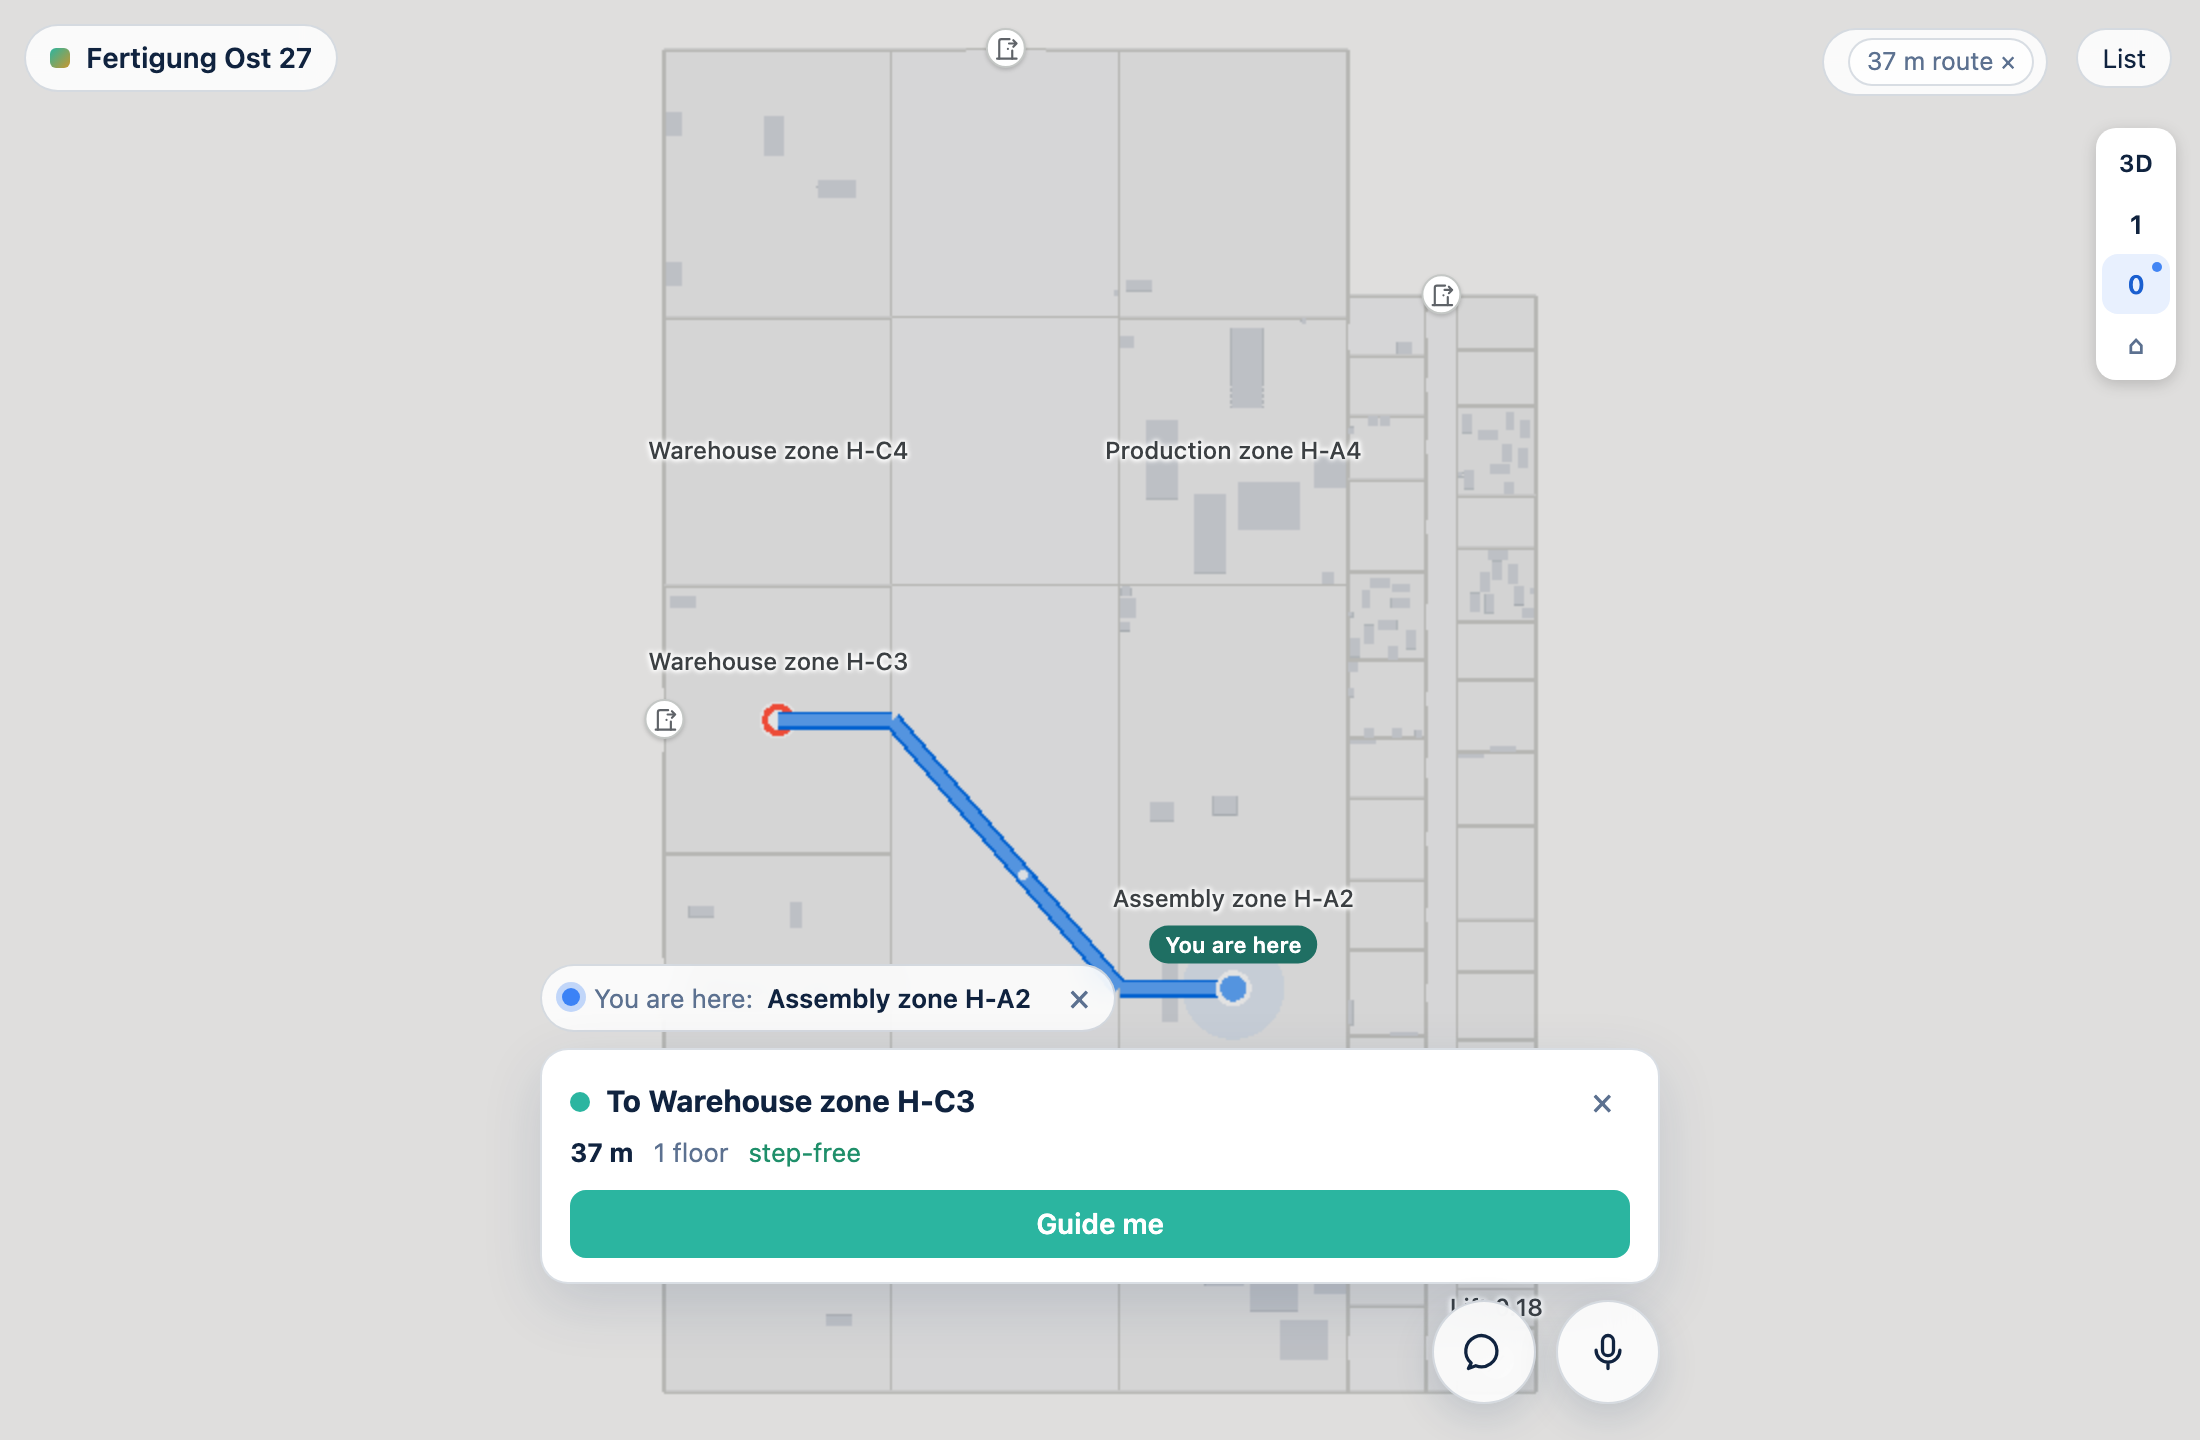
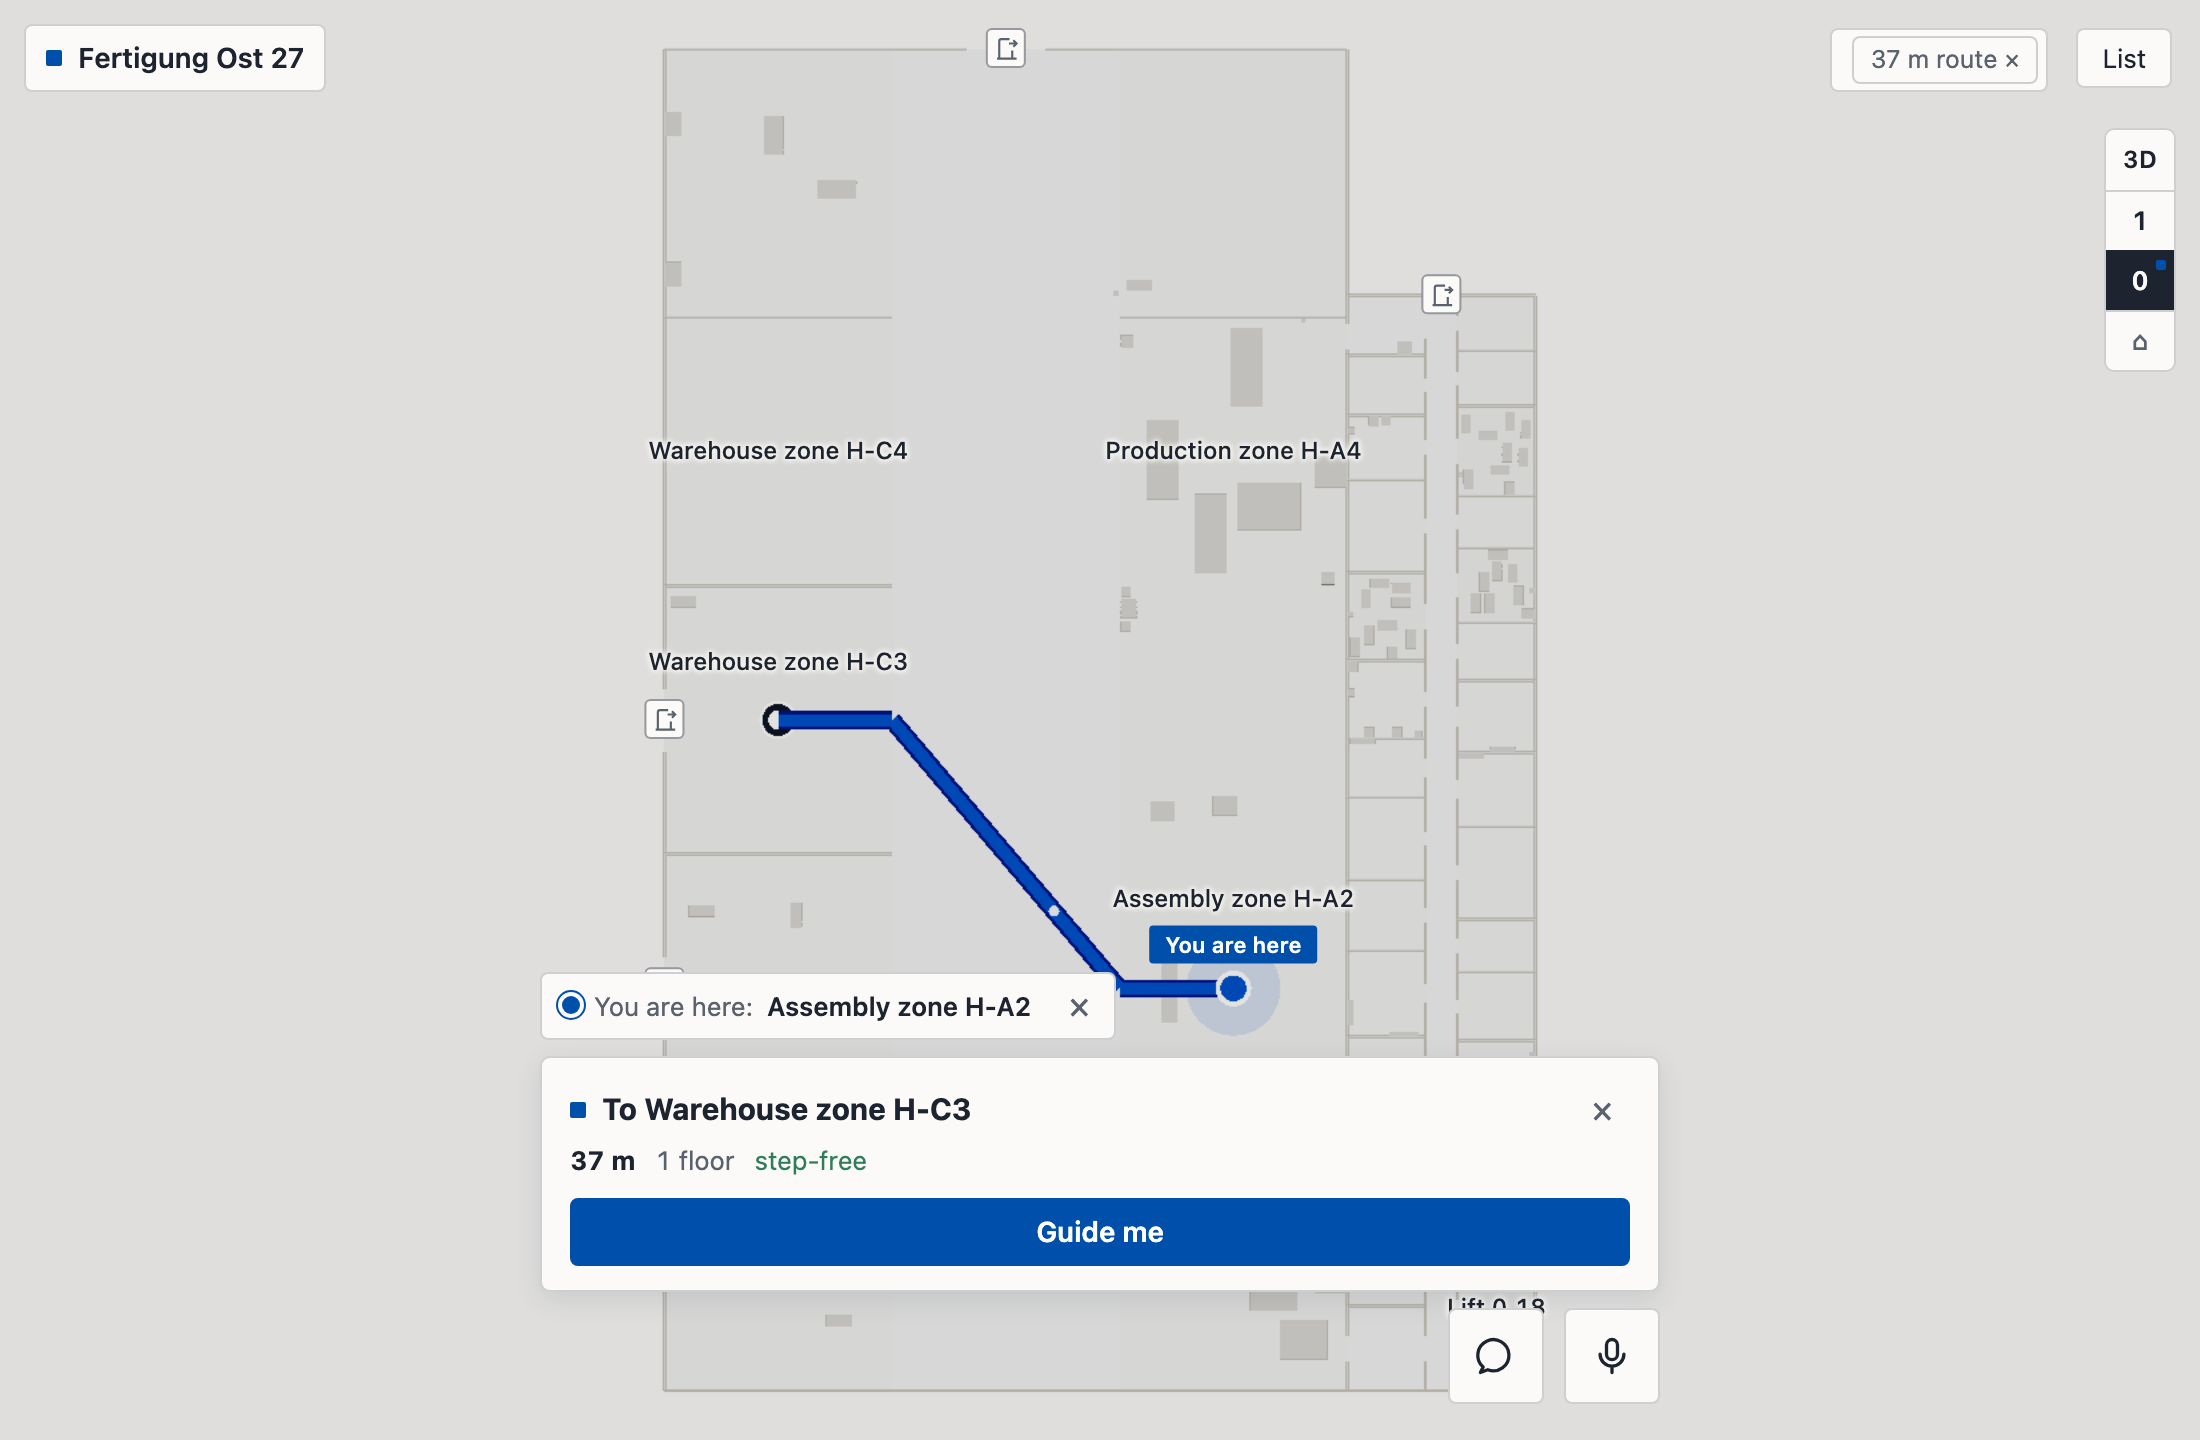
Use the paper token for the label halo, refresh after screenshots

diff --git a/twin/src/scene/HerePin.css b/twin/src/scene/HerePin.css
@@ -16,7 +16,7 @@
 }
 /* Room labels: a thin paper-white halo so a route line behind them stays readable. */
 .label.label-halo {
-  --halo: var(--panel-solid, #fff);
+  --halo: var(--paper, var(--panel-solid, #fff));
   text-shadow:
     1px 0 0 var(--halo), -1px 0 0 var(--halo), 0 1px 0 var(--halo), 0 -1px 0 var(--halo),
     1px 1px 0 var(--halo), -1px -1px 0 var(--halo), 1px -1px 0 var(--halo), -1px 1px 0 var(--halo),
